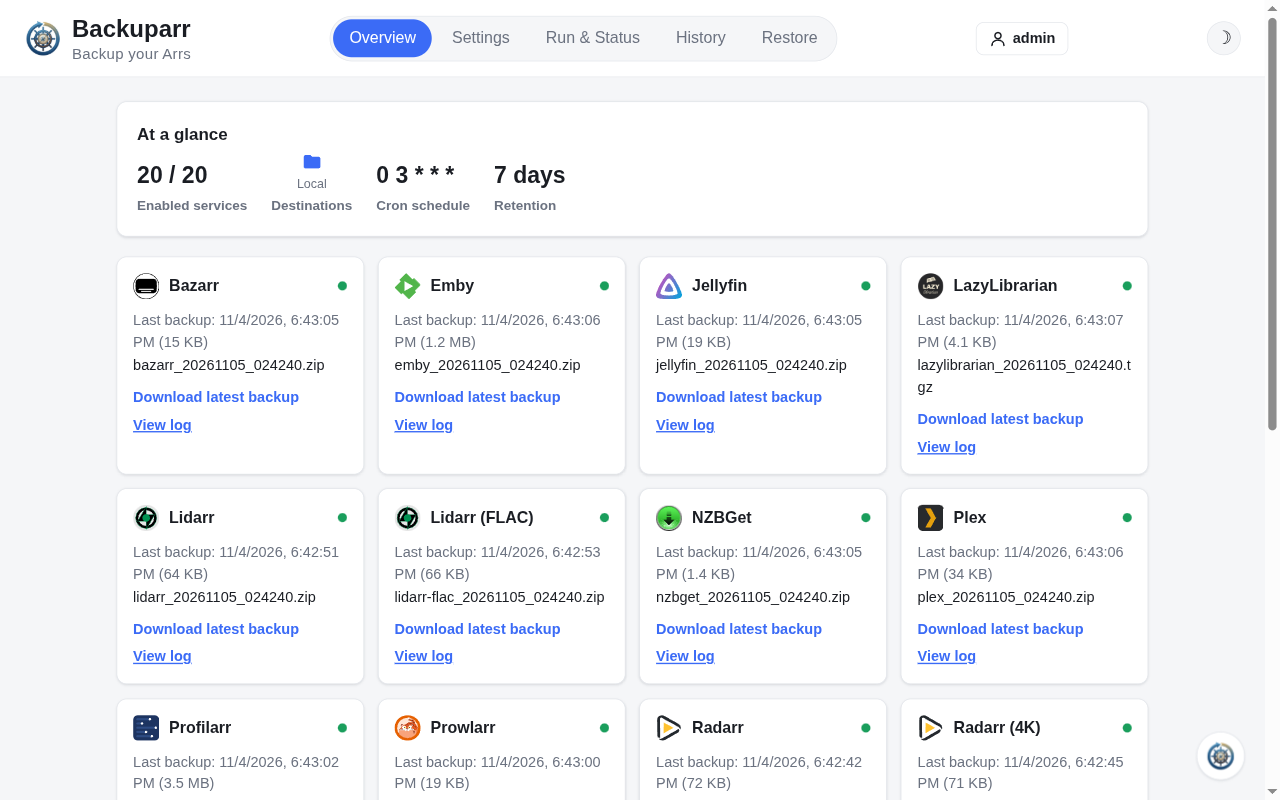
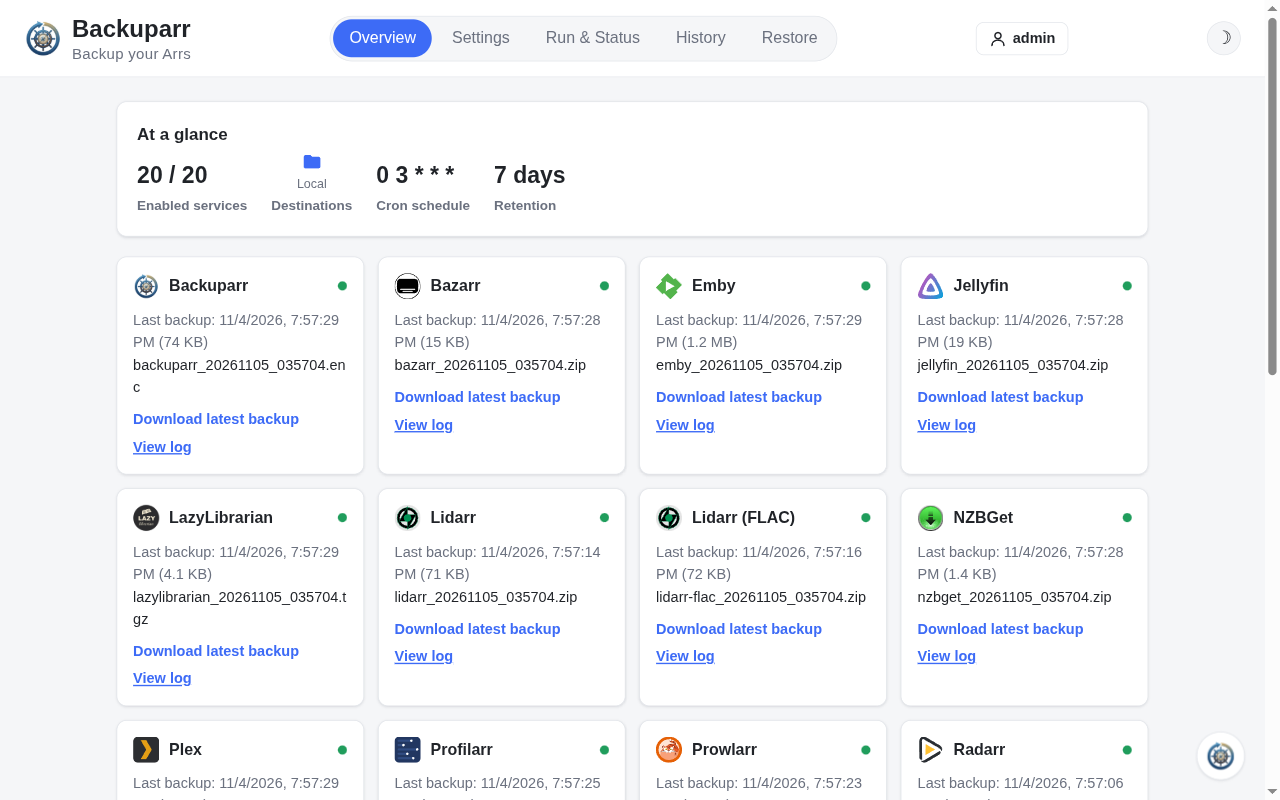
Show a Backuparr card on the Overview, and close the run log on a click outside it

diff --git a/webui/static/app.js b/webui/static/app.js
@@ -146,6 +146,62 @@ function destinationsStat(destIds) {
   return div;
 }
 
+// One Overview tile: an app's (or Backuparr's own) latest backup, or why its
+// last run failed, with download and log links.
+function overviewCard(appId, { label, icon, latest, failure, latestRun, idleText }) {
+  const card = document.createElement("div");
+  card.className = "overview-app-card";
+
+  const head = document.createElement("div");
+  head.className = "overview-app-head";
+  if (icon) {
+    const img = document.createElement("img");
+    img.className = "app-icon";
+    img.src = icon;
+    img.alt = "";
+    head.appendChild(img);
+  }
+  const h3 = document.createElement("h3");
+  h3.textContent = label;
+  head.appendChild(h3);
+  const dot = document.createElement("span");
+  dot.className = "status-dot";
+  dot.dataset.state = failure ? "fail" : latest ? "ok" : "idle";
+  head.appendChild(dot);
+  card.appendChild(head);
+
+  const last = document.createElement("div");
+  last.className = "overview-app-last";
+  if (failure) {
+    const failLine = document.createElement("span");
+    failLine.textContent = `Last run failed: ${failure}`;
+    last.appendChild(failLine);
+  } else if (latest) {
+    const summaryLine = document.createElement("span");
+    summaryLine.textContent = `Last backup: ${fmtTime(latest.mod_time)} (${fmtBytes(latest.size)})`;
+    const fn = document.createElement("span");
+    fn.className = "filename";
+    fn.textContent = latest.name;
+    last.append(summaryLine, fn);
+  } else {
+    last.textContent = idleText;
+  }
+  card.appendChild(last);
+
+  const links = document.createElement("div");
+  links.className = "overview-links";
+  if (latest) {
+    const dlLink = document.createElement("a");
+    dlLink.className = "overview-download-link";
+    dlLink.textContent = "Download latest backup";
+    dlLink.href = `/api/history/${latest.destId}/${appId}/${encodeURIComponent(latest.name)}/download`;
+    links.appendChild(dlLink);
+  }
+  if (latestRun) links.appendChild(viewLogButton(appId, latestRun.id));
+  if (links.childElementCount) card.appendChild(links);
+  return card;
+}
+
 async function loadOverview() {
   const summaryEl = document.getElementById("overview-summary");
   const appsEl = document.getElementById("overview-apps");
@@ -203,69 +259,25 @@ async function loadOverview() {
     });
     summaryEl.append(enabledStat, destinationsStat(destIds), cronStat, retentionStat);
 
+    // Backuparr's own backup leads, always there (#110); then each enabled app.
+    appsEl.appendChild(overviewCard("backuparr", {
+      label: "Backuparr", icon: "/static/logo.png", latest: latestByApp.backuparr,
+      failure: failureByApp.backuparr, latestRun: (latestRuns || {}).backuparr,
+      idleText: cfg.self_backup === false ? "Turned off in Settings." : "No backups yet.",
+    }));
     if (!enabledIds.length) {
-      appsEl.innerHTML = '<p class="overview-empty">No services enabled yet - head to Settings to add one.</p>';
+      const empty = document.createElement("p");
+      empty.className = "overview-empty";
+      empty.textContent = "No services enabled yet - head to Settings to add one.";
+      appsEl.appendChild(empty);
       return;
     }
-
     enabledIds.forEach((appId) => {
       const meta = appMeta(appId);
-      const latest = latestByApp[appId];
-      const failure = failureByApp[appId];
-
-      const card = document.createElement("div");
-      card.className = "overview-app-card";
-
-      const head = document.createElement("div");
-      head.className = "overview-app-head";
-      if (meta) {
-        const img = document.createElement("img");
-        img.className = "app-icon";
-        img.src = `/static/icons/${meta.icon}`;
-        img.alt = "";
-        head.appendChild(img);
-      }
-      const h3 = document.createElement("h3");
-      h3.textContent = appLabel(appId);
-      head.appendChild(h3);
-      const dot = document.createElement("span");
-      dot.className = "status-dot";
-      dot.dataset.state = failure ? "fail" : latest ? "ok" : "idle";
-      head.appendChild(dot);
-      card.appendChild(head);
-
-      const last = document.createElement("div");
-      last.className = "overview-app-last";
-      if (failure) {
-        const failLine = document.createElement("span");
-        failLine.textContent = `Last run failed: ${failure}`;
-        last.appendChild(failLine);
-      } else if (latest) {
-        const summaryLine = document.createElement("span");
-        summaryLine.textContent = `Last backup: ${fmtTime(latest.mod_time)} (${fmtBytes(latest.size)})`;
-        const fn = document.createElement("span");
-        fn.className = "filename";
-        fn.textContent = latest.name;
-        last.append(summaryLine, fn);
-      } else {
-        last.textContent = "No backups yet.";
-      }
-      card.appendChild(last);
-
-      const links = document.createElement("div");
-      links.className = "overview-links";
-      if (latest) {
-        const dlLink = document.createElement("a");
-        dlLink.className = "overview-download-link";
-        dlLink.textContent = "Download latest backup";
-        dlLink.href = `/api/history/${latest.destId}/${appId}/${encodeURIComponent(latest.name)}/download`;
-        links.appendChild(dlLink);
-      }
-      const latestRun = (latestRuns || {})[appId];
-      if (latestRun) links.appendChild(viewLogButton(appId, latestRun.id));
-      if (links.childElementCount) card.appendChild(links);
-
-      appsEl.appendChild(card);
+      appsEl.appendChild(overviewCard(appId, {
+        label: appLabel(appId), icon: meta ? `/static/icons/${meta.icon}` : null, latest: latestByApp[appId],
+        failure: failureByApp[appId], latestRun: (latestRuns || {})[appId], idleText: "No backups yet.",
+      }));
     });
   } catch (e) {
     summaryEl.innerHTML = "";
@@ -289,7 +301,7 @@ async function openRunLog(appId, runId) {
   const panel = document.getElementById("log-panel");
   const meta = document.getElementById("log-panel-meta");
   const lines = document.getElementById("log-panel-lines");
-  document.getElementById("log-panel-title").textContent = `${appLabel(appId)} - run log`;
+  document.getElementById("log-panel-title").textContent = `${appId === "backuparr" ? "Backuparr" : appLabel(appId)} - run log`;
   meta.textContent = "Loading...";
   lines.innerHTML = "";
   panel.classList.remove("hidden");
@@ -305,7 +317,7 @@ async function openRunLog(appId, runId) {
 
   meta.innerHTML = "";
   const when = document.createElement("p");
-  when.textContent = `Run: ${fmtTime(run.started)}${run.app_version ? ` - ${appMeta(appId)?.label || appId} ${run.app_version}` : ""}`;
+  when.textContent = `Run: ${fmtTime(run.started)}${run.app_version ? ` - ${appId === "backuparr" ? "Backuparr" : appMeta(appId)?.label || appId} ${run.app_version}` : ""}`;
   const result = document.createElement("p");
   result.className = run.ok ? "ok" : "fail";
   result.textContent = run.ok ? `Backed up: ${run.file}` : `Failed: ${run.error || "unknown error"}`;
@@ -347,12 +359,19 @@ function initRunLogPanel() {
   document.addEventListener("keydown", (e) => {
     if (e.key === "Escape" && !document.getElementById("log-panel").classList.contains("hidden")) closeRunLog();
   });
+  // A click anywhere outside the panel closes it too - except on a View log
+  // button, which opens (or switches) the panel instead.
+  document.addEventListener("click", (e) => {
+    const panel = document.getElementById("log-panel");
+    if (panel.classList.contains("hidden") || panel.contains(e.target) || e.target.closest(".view-log-btn")) return;
+    closeRunLog();
+  });
 }
 
 function viewLogButton(appId, runId) {
   const btn = document.createElement("button");
   btn.type = "button";
-  btn.className = "link-btn";
+  btn.className = "link-btn view-log-btn";
   btn.textContent = "View log";
   btn.addEventListener("click", () => openRunLog(appId, runId));
   return btn;
@@ -2735,7 +2754,7 @@ function renderChangelogMarkdown(md) {
   return html.join("");
 }
 
-// Lazily fetches the last 3 GitHub Releases and shows them in a modal. Only
+// Lazily fetches the last 5 GitHub Releases and shows them in a modal. Only
 // reachable via the "What's Changed" button, which lives inside #version-check
 // and is therefore only visible once checkForUpdate() has already confirmed
 // GitHub is reachable - no extra eager fetch just to decide whether to show it.
@@ -2744,7 +2763,7 @@ async function openWhatsChanged() {
   body.innerHTML = "";
   document.getElementById("whats-changed-modal").classList.remove("hidden");
   try {
-    const res = await fetch("https://api.github.com/repos/rsaturns/backuparr/releases?per_page=3");
+    const res = await fetch("https://api.github.com/repos/rsaturns/backuparr/releases?per_page=5");
     if (!res.ok) throw new Error(`GitHub returned ${res.status}`);
     const releases = await res.json();
     if (!releases.length) {

diff --git a/docs/security.md b/docs/security.md
@@ -93,6 +93,7 @@ connections, the admin login, the backup record and the run logs. It's
 encrypted with your encryption key and can't be read or changed without it.
 The key itself, the session key and `rclone.pass` aren't in it. Turn it off on
 the Settings tab. History lists these backups under "Backuparr's own
-configuration" for download and delete. See
+configuration" for download and delete, and the Overview shows the latest
+one on its Backuparr card. See
 [Restoring Backuparr itself](restoring.md#restoring-backuparr-itself).
 
